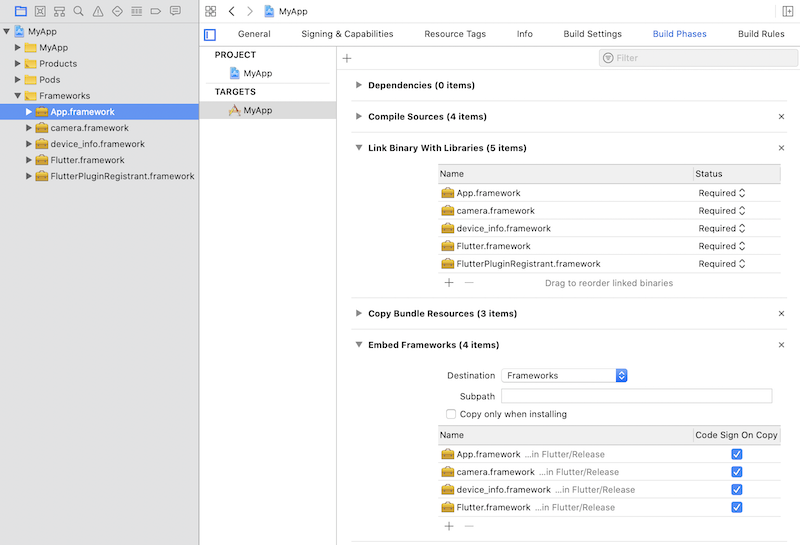
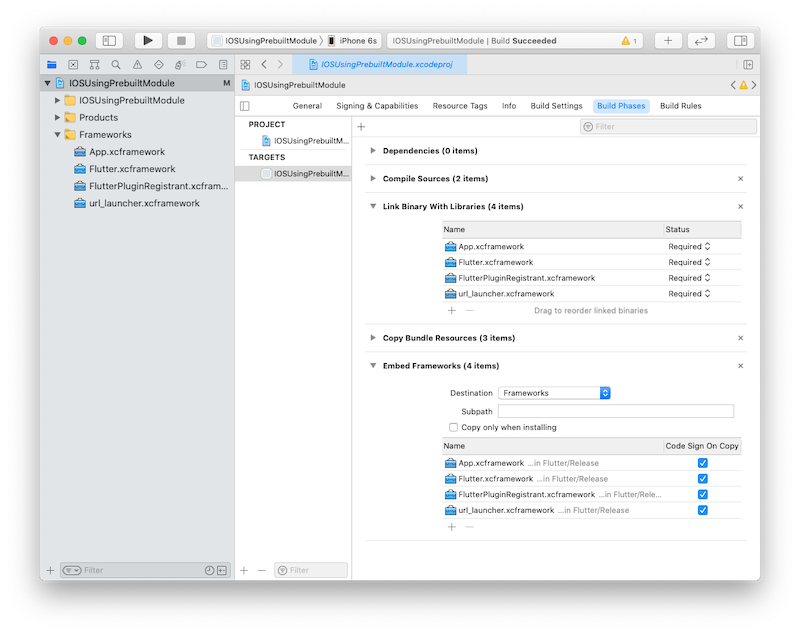
Add to app prebuilt binaries as xcframeworks (#4956)
* Add to app prebuilt binaries as xcframeworks

* optipng

Changed region(s): [[0.0, 0.0, 1.0, 1.0], [0.9688, 0.0, 1.0, 0.0312]]

diff --git a/src/docs/development/add-to-app/ios/project-setup.md b/src/docs/development/add-to-app/ios/project-setup.md
@@ -169,7 +169,7 @@ Run `pod install`.
   in your Flutter module directory to refresh the list
   of plugins read by the `podhelper.rb` script.
   Then, run `pod install` again from
-  your application at`some/path/MyApp`.
+  your application at `some/path/MyApp`.
 {{site.alert.end}}
 
 </li>
@@ -210,40 +210,34 @@ The following example assumes that you want to generate the
 frameworks to `some/path/MyApp/Flutter/`.
 
 ```sh
-flutter build ios-framework --output=some/path/MyApp/Flutter/
+flutter build ios-framework --xcframework --no-universal --output=some/path/MyApp/Flutter/
 ```
 
 ```text
 some/path/MyApp/
 └── Flutter/
     ├── Debug/
-    │   ├── Flutter.framework
-    │   ├── App.framework
-    │   ├── FlutterPluginRegistrant.framework (only if you have plugins with iOS platform code)
-    │   └── example_plugin.framework (each plugin is a separate framework)
+    │   ├── Flutter.xcframework
+    │   ├── App.xcframework
+    │   ├── FlutterPluginRegistrant.xcframework (only if you have plugins with iOS platform code)
+    │   └── example_plugin.xcframework (each plugin is a separate framework)
     ├── Profile/
-    │   ├── Flutter.framework
-    │   ├── App.framework
-    │   ├── FlutterPluginRegistrant.framework
-    │   └── example_plugin.framework
+    │   ├── Flutter.xcframework
+    │   ├── App.xcframework
+    │   ├── FlutterPluginRegistrant.xcframework
+    │   └── example_plugin.xcframework
     └── Release/
-        ├── Flutter.framework
-        ├── App.framework
-        ├── FlutterPluginRegistrant.framework
-        └── example_plugin.framework
+        ├── Flutter.xcframework
+        ├── App.xcframework
+        ├── FlutterPluginRegistrant.xcframework
+        └── example_plugin.xcframework
 ```
 
 {{site.alert.warning}}
-  Always use `Flutter.framework` and `App.framework`
-  from the same directory. Mixing `.framework` imports
-  from different directories (such as `Profile/Flutter.framework`
-  with `Debug/App.framework`) causes runtime crashes.
-{{site.alert.end}}
-
-{{site.alert.tip}}
-  With Xcode 11 installed, you can generate
-  [XCFrameworks][] instead of universal frameworks by adding
-  the flags `--xcframework --no-universal`.
+  Always use `Flutter.xcframework` and `App.xcframework`
+  from the same directory. Mixing `.xcframework` imports
+  from different directories (such as `Profile/Flutter.xcframework`
+  with `Debug/App.xcframework`) causes runtime crashes.
 {{site.alert.end}}
 
 Embed and link the generated frameworks into your existing
@@ -291,8 +285,8 @@ You should now be able to build the project in Xcode using `⌘B`.
   To embed the Debug version of the Flutter frameworks in your
   Debug build configuration and the Release version in your
   Release configuration, in your `MyApp.xcodeproj/project.pbxproj`,
-  try replacing `path = Flutter/Release/example.framework;`
-  with `path = "Flutter/$(CONFIGURATION)/example.framework";`
+  try replacing `path = Flutter/Release/example.xcframework;`
+  with `path = "Flutter/$(CONFIGURATION)/example.xcframework";`
   for all added frameworks. (Note the added `"`.)
 
   You must also add `$(PROJECT_DIR)/Flutter/$(CONFIGURATION)`
@@ -302,16 +296,16 @@ You should now be able to build the project in Xcode using `⌘B`.
 
 ### Option C - Embed application and plugin frameworks in Xcode and Flutter framework with CocoaPods
 
-Alternatively, instead of distributing the large Flutter.framework
+Alternatively, instead of distributing the large Flutter.xcframework
 to other developers, machines, or continuous integration systems,
 you can instead generate Flutter as CocoaPods podspec by adding
 the flag `--cocoapods`. This produces a `Flutter.podspec`
-instead of an engine Flutter.framework.
-The App.framework and plugin frameworks are generated
+instead of an engine Flutter.xcframework.
+The App.xcframework and plugin frameworks are generated
 as described in Option B.
 
 ```sh
-flutter build ios-framework --cocoapods --output=some/path/MyApp/Flutter/
+flutter build ios-framework --cocoapods --xcframework --no-universal --output=some/path/MyApp/Flutter/
 ```
 
 ```text
@@ -319,19 +313,19 @@ some/path/MyApp/
 └── Flutter/
     ├── Debug/
     │   ├── Flutter.podspec
-    │   ├── App.framework
-    │   ├── FlutterPluginRegistrant.framework
-    │   └── example_plugin.framework (each plugin with iOS platform code is a separate framework)
+    │   ├── App.xcframework
+    │   ├── FlutterPluginRegistrant.xcframework
+    │   └── example_plugin.xcframework (each plugin with iOS platform code is a separate framework)
     ├── Profile/
     │   ├── Flutter.podspec
-    │   ├── App.framework
-    │   ├── FlutterPluginRegistrant.framework
-    │   └── example_plugin.framework
+    │   ├── App.xcframework
+    │   ├── FlutterPluginRegistrant.xcframework
+    │   └── example_plugin.xcframework
     └── Release/
         ├── Flutter.podspec
-        ├── App.framework
-        ├── FlutterPluginRegistrant.framework
-        └── example_plugin.framework
+        ├── App.xcframework
+        ├── FlutterPluginRegistrant.xcframework
+        └── example_plugin.xcframework
 ```
 
 Host apps using CocoaPods can add Flutter to their Podfile:
@@ -341,8 +335,8 @@ Host apps using CocoaPods can add Flutter to their Podfile:
 pod 'Flutter', :podspec => 'some/path/MyApp/Flutter/[build mode]/Flutter.podspec'
 ```
 
-Embed and link the generated App.framework,
-FlutterPluginRegistrant.framework,
+Embed and link the generated App.xcframework,
+FlutterPluginRegistrant.xcframework,
 and any plugin frameworks into your existing application
 as described in Option B.
 
